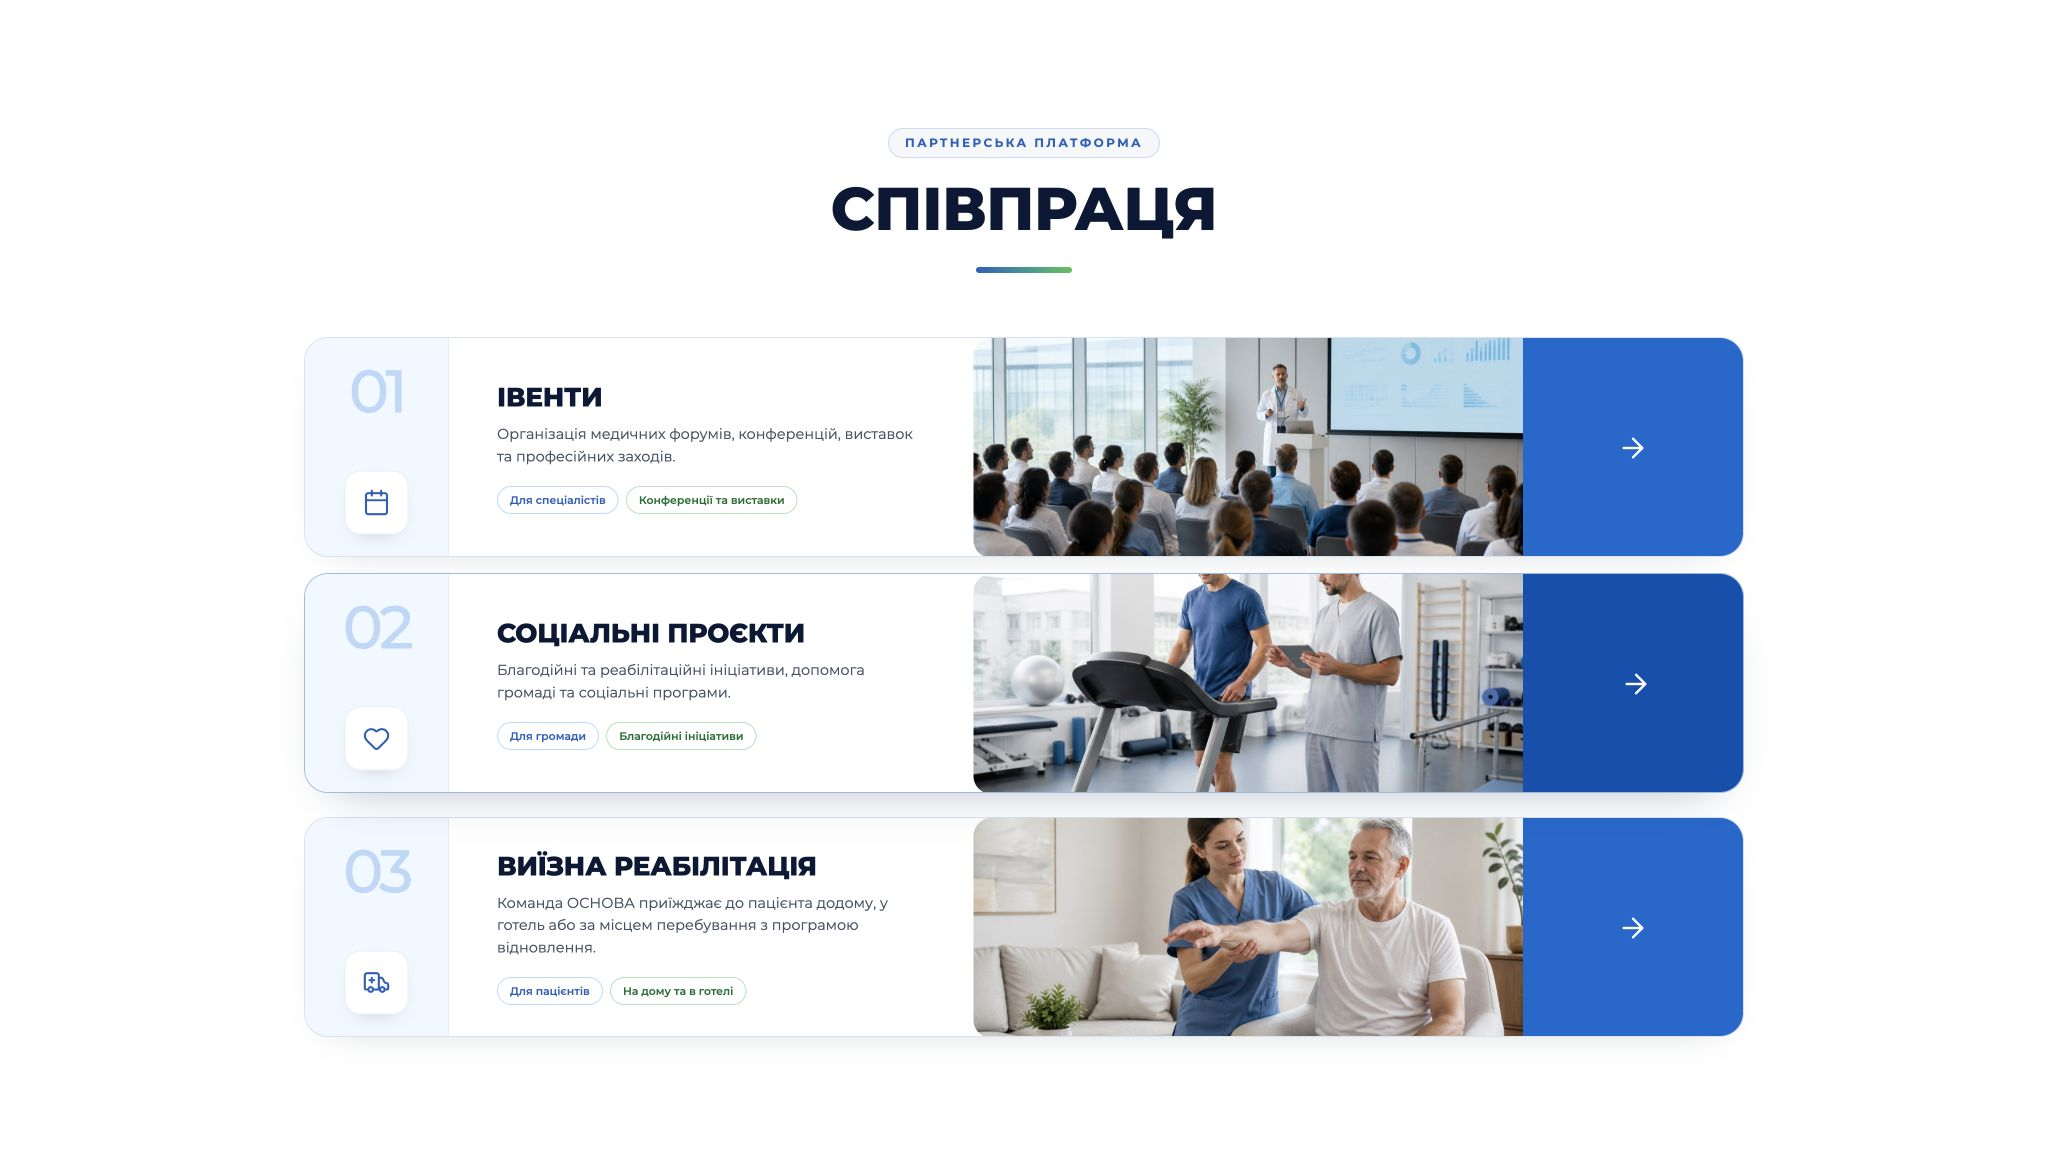
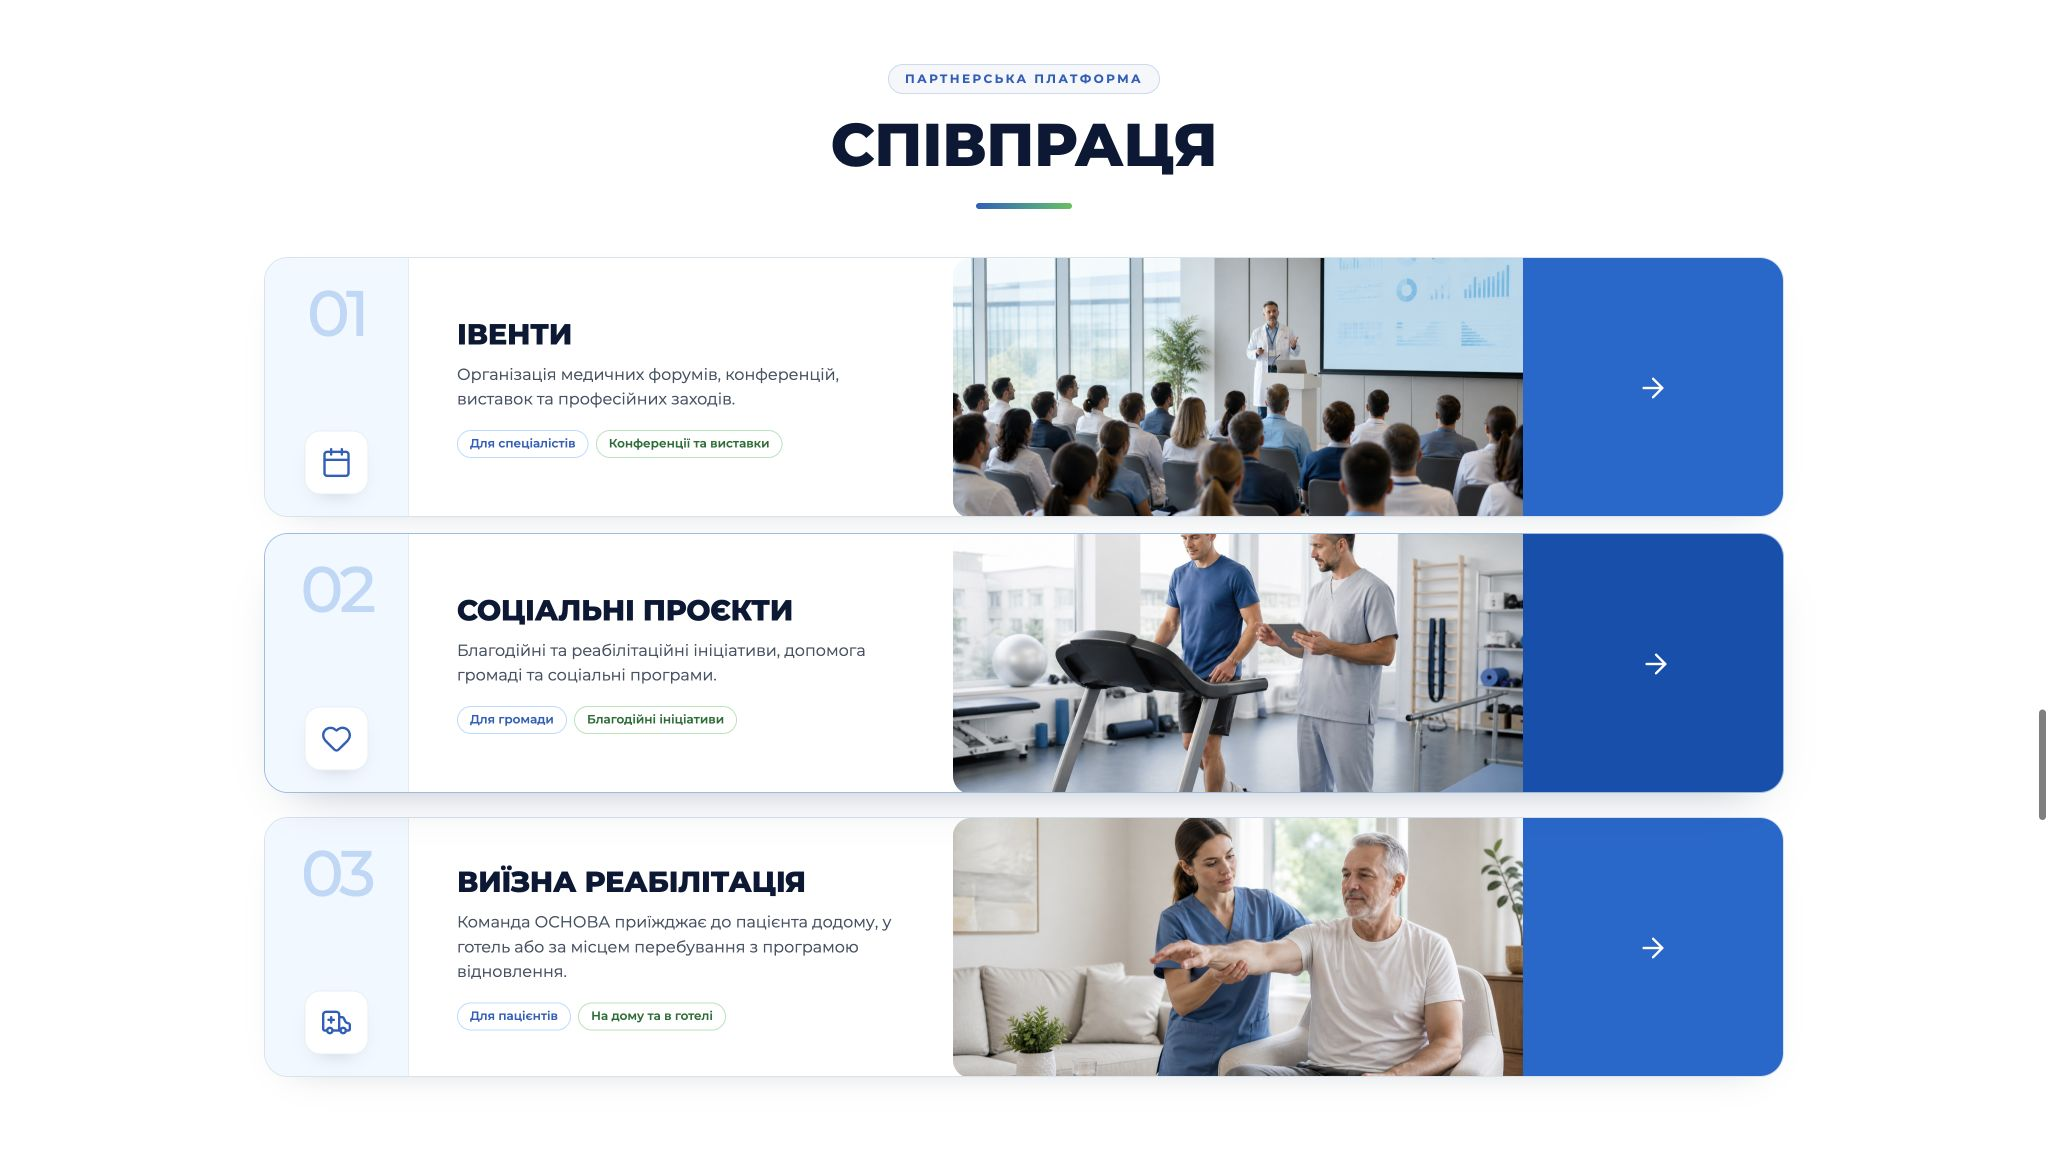
6

diff --git a/src/routes/index.tsx b/src/routes/index.tsx
@@ -370,13 +370,15 @@ function SectionHeader({
   subtitle,
   title,
   centered = false,
+  className = "",
 }: {
   subtitle?: string;
   title: React.ReactNode;
   centered?: boolean;
+  className?: string;
 }) {
   return (
-    <div className={`mb-12 md:mb-16 ${centered ? "text-center" : ""}`}>
+    <div className={`mb-12 md:mb-16 ${centered ? "text-center" : ""} ${className}`}>
       {subtitle && (
         <span className="mb-4 inline-block rounded-full border border-primary/20 bg-primary/5 px-4 py-1.5 text-xs font-bold tracking-[0.2em] text-primary backdrop-blur-md uppercase">
           {subtitle}
@@ -1087,11 +1089,16 @@ function Index() {
         </section>
 
         {/* 8. СПІВПРАЦЯ */}
-        <section className="bg-white py-24 md:py-32">
+        <section className="bg-white py-16 md:py-20 lg:py-16">
           <div className="mx-auto max-w-[1600px] px-4 sm:px-6 lg:px-10">
-            <SectionHeader centered subtitle="ПАРТНЕРСЬКА ПЛАТФОРМА" title="СПІВПРАЦЯ" />
+            <SectionHeader
+              centered
+              subtitle="ПАРТНЕРСЬКА ПЛАТФОРМА"
+              title="СПІВПРАЦЯ"
+              className="!mb-12"
+            />
 
-            <div className="mx-auto mt-12 flex max-w-[1440px] flex-col gap-4 md:mt-14 md:gap-5">
+            <div className="mx-auto flex max-w-[1540px] flex-col gap-4 md:gap-5">
               {COOPERATION_ITEMS.map((item) => (
                 <CooperationCard key={item.number} item={item} />
               ))}

diff --git a/src/styles.css b/src/styles.css
@@ -288,7 +288,7 @@
 
   @media (min-width: 48rem) {
     .cooperation-card {
-      --cooperation-card-size: clamp(11.875rem, 14vw, 13.75rem);
+      --cooperation-card-size: clamp(11.875rem, 16.95vw, 16.25rem);
       grid-template-areas: "marker copy media cta";
       grid-template-columns:
         clamp(5.625rem, 9vw, 9rem)
@@ -308,7 +308,7 @@
     }
 
     .cooperation-number {
-      font-size: clamp(2.7rem, 4.2vw, 3.75rem);
+      font-size: clamp(2.7rem, 4.2vw, 4rem);
     }
 
     .cooperation-icon {
@@ -318,8 +318,8 @@
     }
 
     .cooperation-icon svg {
-      width: clamp(1.35rem, 2vw, 1.75rem);
-      height: clamp(1.35rem, 2vw, 1.75rem);
+      width: clamp(1.35rem, 2vw, 2rem);
+      height: clamp(1.35rem, 2vw, 2rem);
     }
 
     .cooperation-copy {
@@ -327,12 +327,12 @@
     }
 
     .cooperation-copy h3 {
-      font-size: clamp(1.05rem, 1.55vw, 1.65rem);
+      font-size: clamp(1.05rem, 1.55vw, 1.8rem);
     }
 
     .cooperation-copy p {
       margin-top: 0.65rem;
-      font-size: clamp(0.7rem, 0.95vw, 0.9rem);
+      font-size: clamp(0.7rem, 0.95vw, 1rem);
       line-height: 1.55;
     }
 
@@ -344,7 +344,7 @@
     .cooperation-tags span {
       min-height: 1.75rem;
       padding: 0.25rem clamp(0.55rem, 0.8vw, 0.75rem);
-      font-size: clamp(0.57rem, 0.72vw, 0.68rem);
+      font-size: clamp(0.57rem, 0.72vw, 0.75rem);
     }
 
     .cooperation-media {
